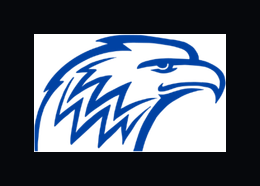
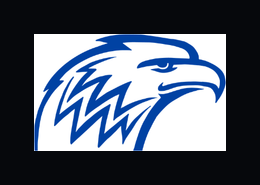
Complete branding overhaul: EBC-OS → Eagles Brothers Constructors
Brand Assets:
- Regenerate all logos from official Canva Brand Kit (6 variants)
- Blue eagle icon, blue wordmark, white-on-navy wordmark
- PWA icons (512, 192, 48) with eagle on dark navy background
- Proposal PDF header with full wordmark (eagle + text)
- Android adaptive icon foreground
- White wordmark variant for dark backgrounds

App Branding:
- Remove all "EBC-OS" text throughout the app
- Header shows eagle logo only (gold on dark theme, blue on light)
- Login screen: "Eagles Brothers Constructors"
- Onboarding: "Welcome to EBC"
- PWA manifest: name "Eagles Brothers Constructors", short "EBC"
- Browser title: "Eagles Brothers Constructors"
- Splash screen: eagle logo with gold tint
- Notifications: "EBC" prefix instead of "EBC-OS"
- Capacitor/iOS/Android app name updated

Build Config:
- Downgrade AGP to 8.9.1 for Android Studio Panda compatibility
- Gradle wrapper 8.12
- Android SDK paths configured

diff --git a/src/App.jsx b/src/App.jsx
@@ -2297,14 +2297,8 @@ function App({ auth, onLogout }) {
       {isCyber && <div className="cyber-scanlines" />}
 
       <header className="header">
-        <div className="logo" style={{ display: "flex", alignItems: "center", gap: 10 }}>
-          <div style={{ width: 58, height: 38, overflow: "hidden", position: "relative", flexShrink: 0 }}>
-            <img src="/eagle.png" alt="EBC" style={{ position: "absolute", width: 48, height: 48, top: -5, left: 5, filter: theme === "daylight" ? "invert(1)" : "none", opacity: 0.95, objectFit: "contain" }} onError={(e) => e.target.parentElement.style.display = "none"} />
-          </div>
-          <div style={{ display: "flex", flexDirection: "column", justifyContent: "center", lineHeight: 1.2 }}>
-            {isAnime ? "EBC-OS ✧" : "EBC-OS"}
-            <span className="logo-sub">{isAnime ? "♡ EAGLES BROTHERS CONSTRUCTORS ♡" : "EAGLES BROTHERS CONSTRUCTORS"}</span>
-          </div>
+        <div className="logo" style={{ display: "flex", alignItems: "center", gap: 6 }}>
+          <img src="/ebc-eagle.png" alt="Eagles Brothers Constructors" style={{ height: 32, width: "auto", objectFit: "contain", filter: theme === "daylight" ? "none" : "brightness(0) saturate(100%) invert(62%) sepia(85%) saturate(500%) hue-rotate(350deg) brightness(1.05)", transition: "filter 0.3s" }} onError={(e) => e.target.style.display = "none"} />
         </div>
         <button className="hamburger" onClick={() => setMobileNav(!mobileNav)} aria-label="Menu">
           <span className={`hamburger-line ${mobileNav ? "open" : ""}`} />
@@ -2357,7 +2351,7 @@ function App({ auth, onLogout }) {
           <div className="mobile-nav-overlay" onClick={() => setMobileNav(false)}>
             <nav className="mobile-nav" onClick={e => e.stopPropagation()}>
               <div className="mobile-nav-header">
-                <div className="logo" style={{ fontSize: 16 }}>{isAnime ? "EBC-OS \u2727" : "EBC-OS"}</div>
+                <div className="logo" style={{ fontSize: 16, display: "flex", alignItems: "center" }}><img src="/ebc-eagle.png" alt="EBC" style={{ height: 24, width: "auto", objectFit: "contain", filter: theme === "daylight" ? "none" : "brightness(0) saturate(100%) invert(62%) sepia(85%) saturate(500%) hue-rotate(350deg) brightness(1.05)" }} onError={(e) => e.target.style.display = "none"} /></div>
                 <button className="modal-close" onClick={() => setMobileNav(false)}>{"\u2715"}</button>
               </div>
               <div className="mobile-nav-section">
@@ -2424,7 +2418,7 @@ function App({ auth, onLogout }) {
         }}>
           <div style={{ fontSize: 28, lineHeight: 1 }}>&#9881;</div>
           <div style={{ flex: 1 }}>
-            <div style={{ fontWeight: 700, fontSize: 14, color: "var(--gold, #e09422)" }}>{t("Install EBC-OS")}</div>
+            <div style={{ fontWeight: 700, fontSize: 14, color: "var(--gold, #e09422)" }}>{t("Install EBC")}</div>
             <div style={{ fontSize: 12, color: "var(--text2)", marginTop: 2 }}>
               {t("Works offline, launches instantly — like a real app")}
             </div>
@@ -2436,7 +2430,7 @@ function App({ auth, onLogout }) {
           }} onClick={async () => {
             installPrompt.prompt();
             const { outcome } = await installPrompt.userChoice;
-            if (outcome === "accepted") show("EBC-OS installed!");
+            if (outcome === "accepted") show("EBC installed!");
             setInstallPrompt(null);
           }}>{t("Install")}</button>
           <button onClick={() => {

diff --git a/src/tabs/EmployeeView.jsx b/src/tabs/EmployeeView.jsx
@@ -493,7 +493,7 @@ export function EmployeeView({ app }) {
     return (
       <div className="employee-app">
         <header className="employee-header">
-          <div className="employee-logo" style={{ display: "flex", alignItems: "center", gap: 8 }}><img src="/eagle.png" alt="" style={{ width: 36, height: 36, objectFit: "contain", background: "transparent" }} onError={(e) => e.target.style.display = "none"} />EBC-OS</div>
+          <div className="employee-logo" style={{ display: "flex", alignItems: "center", gap: 8 }}><img src="/ebc-eagle.png" alt="EBC" style={{ height: 28, width: "auto", objectFit: "contain" }} onError={(e) => e.target.style.display = "none"} /></div>
           <span className="text-sm text-muted">{t("Employee Portal")}</span>
         </header>
         <div className="employee-body">
@@ -541,7 +541,7 @@ export function EmployeeView({ app }) {
       <div className="employee-app">
         <header className="employee-header">
           <div>
-            <div className="employee-logo" style={{ display: "flex", alignItems: "center", gap: 8 }}><img src="/eagle.png" alt="" style={{ width: 36, height: 36, objectFit: "contain", background: "transparent" }} onError={(e) => e.target.style.display = "none"} />EBC-OS</div>
+            <div className="employee-logo" style={{ display: "flex", alignItems: "center", gap: 8 }}><img src="/ebc-eagle.png" alt="EBC" style={{ height: 28, width: "auto", objectFit: "contain" }} onError={(e) => e.target.style.display = "none"} /></div>
             <span className="text-xs text-muted">{activeEmp.name} · {activeEmp.role}</span>
           </div>
           <button className="settings-gear" onClick={() => { setSelectedInfoProject(null); setEmpTab("settings"); }} title={t("Settings")}>
@@ -697,7 +697,7 @@ export function EmployeeView({ app }) {
     <div className="employee-app">
       <header className="employee-header">
         <div>
-          <div className="employee-logo" style={{ display: "flex", alignItems: "center", gap: 8 }}><img src="/eagle.png" alt="" style={{ width: 36, height: 36, objectFit: "contain", background: "transparent" }} onError={(e) => e.target.style.display = "none"} />EBC-OS</div>
+          <div className="employee-logo" style={{ display: "flex", alignItems: "center", gap: 8 }}><img src="/ebc-eagle.png" alt="EBC" style={{ height: 28, width: "auto", objectFit: "contain" }} onError={(e) => e.target.style.display = "none"} /></div>
           <span className="text-xs text-muted">{activeEmp.name} · {activeEmp.role}</span>
         </div>
         <button className="settings-gear" onClick={() => setEmpTab("settings")} title={t("Settings")}>

diff --git a/index.html b/index.html
@@ -10,10 +10,10 @@
     <meta name="viewport" content="width=device-width, initial-scale=1.0, viewport-fit=cover" />
     <meta name="apple-mobile-web-app-capable" content="yes" />
     <meta name="apple-mobile-web-app-status-bar-style" content="black-translucent" />
-    <meta name="apple-mobile-web-app-title" content="EBC-OS" />
+    <meta name="apple-mobile-web-app-title" content="Eagles Brothers Constructors" />
     <link rel="apple-touch-icon" sizes="180x180" href="/apple-touch-icon.png?v=4" />
     <meta name="description" content="Construction management OS for drywall & framing contractors" />
-    <title>EBC-OS · Eagles Brothers Constructors</title>
+    <title>Eagles Brothers Constructors</title>
     <link rel="preconnect" href="https://fonts.googleapis.com" />
     <link rel="preconnect" href="https://fonts.gstatic.com" crossorigin />
     <link href="https://fonts.googleapis.com/css2?family=Barlow:wght@400;500;600;700&family=Barlow+Condensed:wght@500;600;700&family=IBM+Plex+Mono:wght@400;500;600&display=swap" rel="stylesheet" />
@@ -35,13 +35,13 @@
             border-top-color:#e09422;
             animation:splash-spin 1s linear infinite;
           "></div>
-          <div style="
-            position:absolute;inset:0;display:flex;align-items:center;justify-content:center;
-            font-weight:700;font-size:22px;letter-spacing:1px;
-          ">EBC</div>
+          <img src="/ebc-eagle.png" alt="EBC" style="
+            position:absolute;inset:0;width:60px;height:60px;margin:auto;
+            object-fit:contain;
+            filter:brightness(0) saturate(100%) invert(62%) sepia(85%) saturate(500%) hue-rotate(350deg) brightness(1.05);
+          " />
         </div>
-        <div style="font-size:24px;font-weight:700;letter-spacing:3px;">EBC-OS</div>
-        <div style="font-size:12px;color:#555;margin-top:6px;letter-spacing:1px;">EAGLES BROTHERS CONSTRUCTORS</div>
+        <div style="font-size:13px;font-weight:700;letter-spacing:2px;color:#e09422;margin-top:4px;">EAGLES BROTHERS CONSTRUCTORS</div>
         <div style="margin-top:24px;width:120px;height:3px;background:rgba(224,148,34,0.15);border-radius:2px;overflow:hidden;">
           <div style="height:100%;background:#e09422;border-radius:2px;animation:splash-bar 1.8s ease-in-out infinite;"></div>
         </div>

diff --git a/public/sw.js b/public/sw.js
@@ -218,7 +218,7 @@ self.addEventListener("message", (event) => {
 
     if (delay > 0 && delay < 8 * 60 * 60 * 1000) {
       const timer = setTimeout(() => {
-        self.registration.showNotification("EBC-OS · Clock In Reminder", {
+        self.registration.showNotification("EBC · Clock In Reminder", {
           body: `${employeeName}, time to clock in${projectName ? " for " + projectName : ""}`,
           icon: "/icon-192.png",
           badge: "/icon-192.png",
@@ -247,7 +247,7 @@ self.addEventListener("message", (event) => {
   // ── Generic one-shot notification ──
   if (data?.type === "SHOW_NOTIFICATION") {
     const { title, body, tag, url, icon } = data;
-    self.registration.showNotification(title || "EBC-OS", {
+    self.registration.showNotification(title || "EBC", {
       body: body || "",
       icon: icon || "/icon-192.png",
       badge: "/icon-192.png",
@@ -270,7 +270,7 @@ self.addEventListener("message", (event) => {
 
     if (delay > 0 && delay < 12 * 60 * 60 * 1000) {
       const timer = setTimeout(() => {
-        self.registration.showNotification("EBC-OS · Daily Report", {
+        self.registration.showNotification("EBC · Daily Report", {
           body: `${employeeName}, don't forget to submit your daily report before leaving`,
           icon: "/icon-192.png",
           badge: "/icon-192.png",
@@ -330,7 +330,7 @@ self.addEventListener("push", (event) => {
     const payload = event.data.json();
     const { title, body, tag, url, icon } = payload;
     event.waitUntil(
-      self.registration.showNotification(title || "EBC-OS", {
+      self.registration.showNotification(title || "EBC", {
         body: body || "",
         icon: icon || "/icon-192.png",
         badge: "/icon-192.png",
@@ -342,7 +342,7 @@ self.addEventListener("push", (event) => {
   } catch {
     // Fallback for plain text payloads
     event.waitUntil(
-      self.registration.showNotification("EBC-OS", {
+      self.registration.showNotification("EBC", {
         body: event.data.text(),
         icon: "/icon-192.png",
         badge: "/icon-192.png",

diff --git a/src/tabs/DriverView.jsx b/src/tabs/DriverView.jsx
@@ -205,7 +205,7 @@ export function DriverView({ app }) {
     return (
       <div className="employee-app">
         <header className="employee-header">
-          <div className="employee-logo" style={{ display: "flex", alignItems: "center", gap: 8 }}><img src="/eagle.png" alt="" style={{ width: 36, height: 36, objectFit: "contain", background: "transparent" }} onError={(e) => e.target.style.display = "none"} />EBC-OS</div>
+          <div className="employee-logo" style={{ display: "flex", alignItems: "center", gap: 8 }}><img src="/ebc-eagle.png" alt="EBC" style={{ height: 28, width: "auto", objectFit: "contain" }} onError={(e) => e.target.style.display = "none"} /></div>
           <span className="text-sm text-muted">{t("Driver Portal")}</span>
         </header>
         <div className="employee-body">
@@ -237,7 +237,7 @@ export function DriverView({ app }) {
     <div className="employee-app">
       <header className="employee-header">
         <div>
-          <div className="employee-logo" style={{ display: "flex", alignItems: "center", gap: 8 }}><img src="/eagle.png" alt="" style={{ width: 36, height: 36, objectFit: "contain", background: "transparent" }} onError={(e) => e.target.style.display = "none"} />EBC-OS</div>
+          <div className="employee-logo" style={{ display: "flex", alignItems: "center", gap: 8 }}><img src="/ebc-eagle.png" alt="EBC" style={{ height: 28, width: "auto", objectFit: "contain" }} onError={(e) => e.target.style.display = "none"} /></div>
           <span className="text-xs text-muted">{activeDriver.name} · {t("Deliveries")}</span>
         </div>
         <button className="settings-gear" onClick={() => setDriverTab("settings")} title={t("Settings")}>&#9881;</button>

diff --git a/src/tabs/ForemanView.jsx b/src/tabs/ForemanView.jsx
@@ -473,7 +473,7 @@ export function ForemanView({ app }) {
     return (
       <div className="employee-app">
         <header className="employee-header">
-          <div className="employee-logo" style={{ display: "flex", alignItems: "center", gap: 8 }}><img src="/eagle.png" alt="" style={{ width: 36, height: 36, objectFit: "contain", background: "transparent" }} onError={(e) => e.target.style.display = "none"} />EBC-OS</div>
+          <div className="employee-logo" style={{ display: "flex", alignItems: "center", gap: 8 }}><img src="/ebc-eagle.png" alt="EBC" style={{ height: 28, width: "auto", objectFit: "contain" }} onError={(e) => e.target.style.display = "none"} /></div>
           <span className="text-sm text-muted">{t("Foreman Portal")}</span>
         </header>
         <div className="employee-body">
@@ -544,7 +544,7 @@ export function ForemanView({ app }) {
       )}
       <header className="employee-header">
         <div>
-          <div className="employee-logo" style={{ display: "flex", alignItems: "center", gap: 8 }}><img src="/eagle.png" alt="" style={{ width: 36, height: 36, objectFit: "contain", background: "transparent" }} onError={(e) => e.target.style.display = "none"} />EBC-OS</div>
+          <div className="employee-logo" style={{ display: "flex", alignItems: "center", gap: 8 }}><img src="/ebc-eagle.png" alt="EBC" style={{ height: 28, width: "auto", objectFit: "contain" }} onError={(e) => e.target.style.display = "none"} /></div>
           <span className="text-xs text-muted">{activeForeman.name} · {t("Foreman Portal")}</span>
         </div>
         <button className="settings-gear" onClick={() => setForemanTab("settings")} title={t("Settings")}>

diff --git a/src/components/OnboardingWizard.jsx b/src/components/OnboardingWizard.jsx
@@ -384,7 +384,7 @@ export function OnboardingWizard({ onComplete }) {
           {step === 0 && (
             <div className="wizard-slide">
               <img src="/eagle.png" alt="EBC" className="wizard-logo" onError={(e) => { e.target.style.display = "none"; }} />
-              <div className="wizard-title">Welcome to EBC-OS</div>
+              <div className="wizard-title">Welcome to EBC</div>
               <div className="wizard-desc">
                 Your complete construction management platform.<br />
                 Bids, projects, estimating, scheduling, safety, and more — all in one place.
@@ -487,10 +487,10 @@ export function OnboardingWizard({ onComplete }) {
               <div className="wizard-ready-icon">{"\ud83d\ude80"}</div>
               <div className="wizard-title">You're All Set!</div>
               <div className="wizard-desc" style={{ marginBottom: 32 }}>
-                EBC-OS is ready. Your data, your team, your way.
+                EBC is ready. Your data, your team, your way.
               </div>
               <button className="wizard-btn wizard-launch" onClick={handleComplete}>
-                Launch EBC-OS
+                Launch EBC
               </button>
             </div>
           )}

diff --git a/src/hooks/useNotifications.js b/src/hooks/useNotifications.js
@@ -60,7 +60,7 @@ export function useNotifications() {
   const notifyMaterialStatus = useCallback(({ material, status, projectName, requestId }) => {
     const statusText = status === "approved" ? "approved" : status === "delivered" ? "delivered" : `updated to ${status}`;
     sendNotification({
-      title: `EBC-OS · Material ${status === "delivered" ? "Delivered" : "Update"}`,
+      title: `EBC · Material ${status === "delivered" ? "Delivered" : "Update"}`,
       body: `${material} has been ${statusText}${projectName ? " — " + projectName : ""}`,
       tag: `material-${requestId}`,
       url: "/#/foreman",
@@ -70,7 +70,7 @@ export function useNotifications() {
   // ── Schedule change notification ──
   const notifyScheduleChange = useCallback(({ employeeName, projectName, change }) => {
     sendNotification({
-      title: "EBC-OS · Schedule Change",
+      title: "EBC · Schedule Change",
       body: `${employeeName}: ${change}${projectName ? " — " + projectName : ""}`,
       tag: `schedule-change-${Date.now()}`,
       url: "/#/employee",

diff --git a/src/components/InstallPrompt.jsx b/src/components/InstallPrompt.jsx
@@ -65,7 +65,7 @@ export function InstallPrompt() {
     }}>
       <span style={{ fontSize: 20 }}>&#9881;</span>
       <div style={{ flex: 1 }}>
-        <strong style={{ color: "var(--gold, #e09422)" }}>Install EBC-OS</strong>
+        <strong style={{ color: "var(--gold, #e09422)" }}>Install EBC</strong>
         <div style={{ fontSize: 11, color: "var(--text2)", marginTop: 2 }}>
           Works offline, launches instantly, feels like a native app
         </div>
@@ -129,7 +129,7 @@ export function UpdateBanner() {
     }}>
       <span style={{ fontSize: 16 }}>&#8635;</span>
       <span style={{ flex: 1 }}>
-        <strong>Update available</strong> — a new version of EBC-OS is ready
+        <strong>Update available</strong> — a new version of EBC is ready
       </span>
       <button
         onClick={() => window.location.reload()}

diff --git a/src/main.jsx b/src/main.jsx
@@ -10,7 +10,7 @@ class ErrorBoundary extends Component {
   render() {
     if (this.state.error) return (
       <div style={{padding:40,color:'#ff6b6b',background:'#111',minHeight:'100vh',fontFamily:'monospace'}}>
-        <h2>EBC-OS Error</h2>
+        <h2>EBC Error</h2>
         <pre style={{whiteSpace:'pre-wrap',color:'#ffa'}}>{this.state.error.message}</pre>
         <pre style={{whiteSpace:'pre-wrap',color:'#888',fontSize:12}}>{this.state.error.stack}</pre>
         <button onClick={()=>location.reload()} style={{marginTop:20,padding:'8px 20px',background:'#e09422',border:'none',borderRadius:6,color:'#000',fontWeight:700,cursor:'pointer'}}>Reload</button>

diff --git a/src/components/LoginScreen.jsx b/src/components/LoginScreen.jsx
@@ -588,7 +588,7 @@ export function LoginScreen({ onLogin }) {
       <div className="login-card">
         <div className="login-logo-wrap">
           <img src="/eagle.png" alt="EBC" className="login-logo-img" onError={(e) => { e.target.style.display = "none"; }} />
-          <div className="login-title">EBC-OS</div>
+          <div className="login-title">Eagles Brothers Constructors</div>
           <div className="login-subtitle">{t("Eagles Brothers Constructors")}</div>
         </div>
 

diff --git a/src/tabs/MoreTabs.jsx b/src/tabs/MoreTabs.jsx
@@ -4662,7 +4662,7 @@ function ApiTab({ app }) {
     setStatus(null);
     try {
       const { callClaude } = await import("../utils/api.js");
-      const result = await callClaude(key, "Reply with exactly: EBC-OS connected", 32);
+      const result = await callClaude(key, "Reply with exactly: EBC connected", 32);
       if (result.toLowerCase().includes("connected")) {
         setStatus("ok");
         app.show("API connected successfully");
